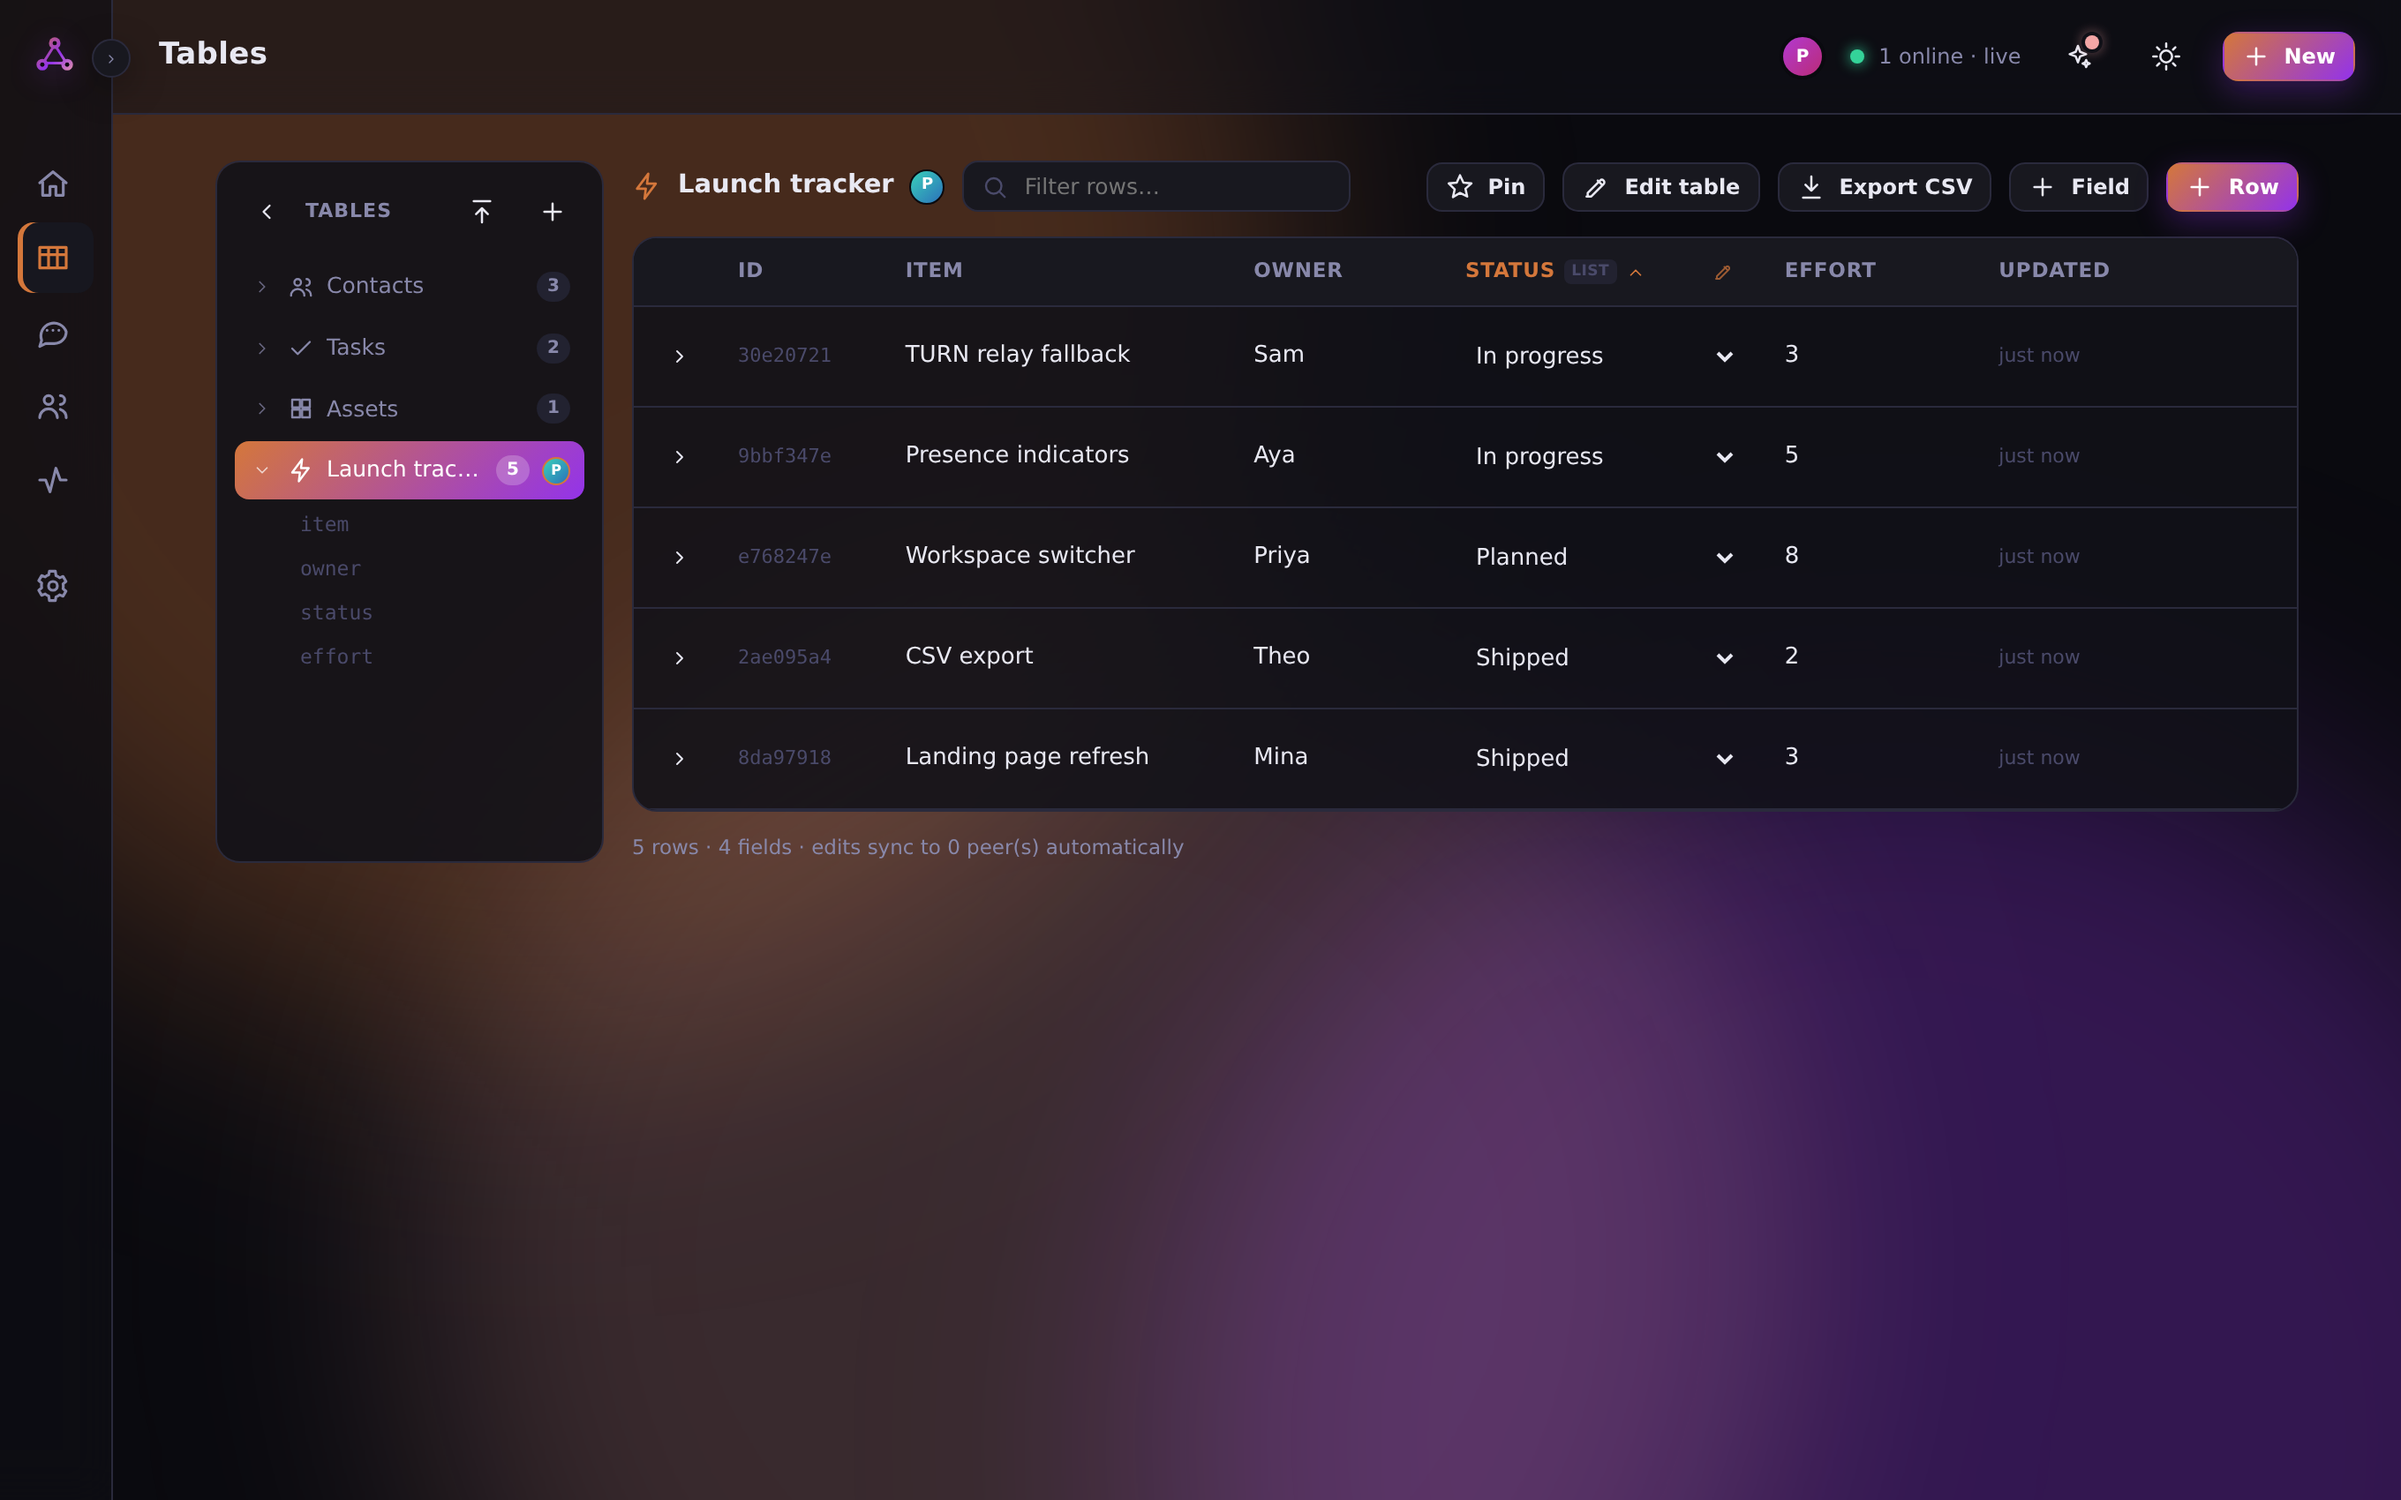
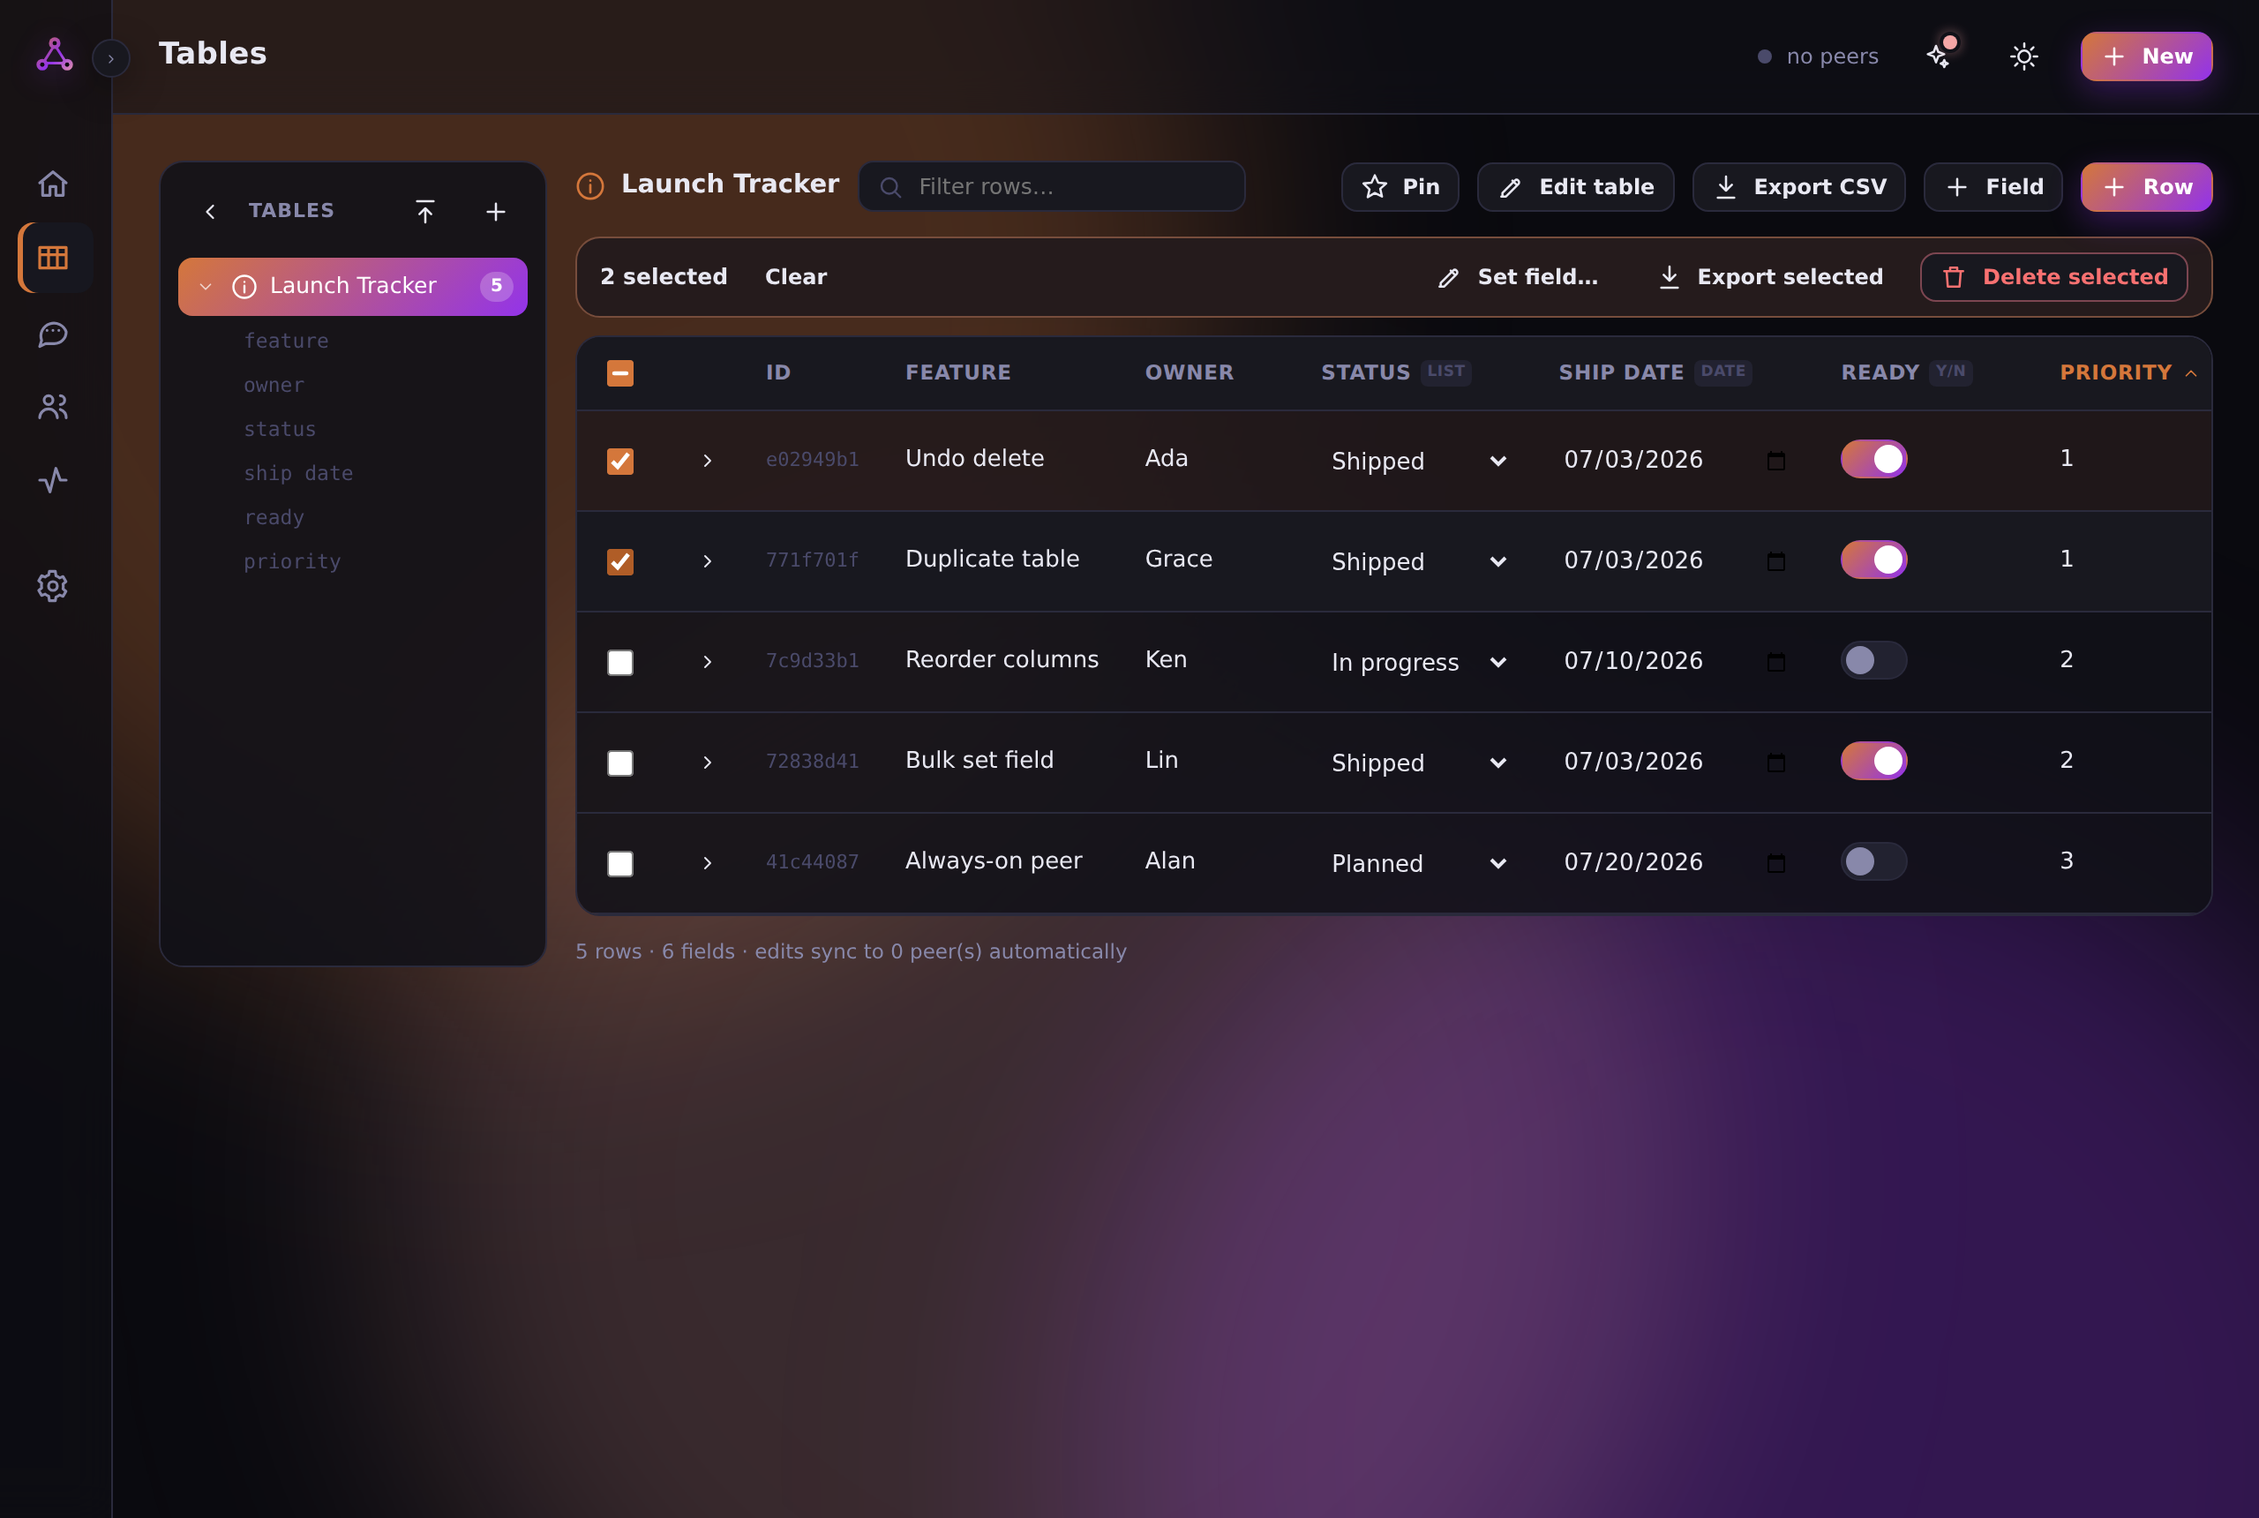
auto: self-improvement (polish)
Automated hourly improvement; passed smoke test and auto-deployed.

diff --git a/index.html b/index.html
@@ -4,13 +4,13 @@
   <meta charset="utf-8"/>
   <meta name="viewport" content="width=device-width, initial-scale=1, viewport-fit=cover"/>
   <title>Relay — a serverless, peer-to-peer collaborative table · polecat.live</title>
-  <meta name="description" content="Relay is a collaborative database that lives in your browser. Create dynamic, typed tables (import or export a CSV in one click), chat, see who's viewing a table live, and invite the people you trust with signed invite-only links — synced directly, peer to peer, with optional backups to your own local folder, S3, WebDAV, Dropbox, or Google Drive. No accounts, no backend, no servers."/>
+  <meta name="description" content="Relay is a collaborative database that lives in your browser. Create dynamic, typed tables (import or export a CSV in one click), bulk-edit or export a batch of rows, undo any delete, chat, see who's viewing a table live, and invite the people you trust with signed invite-only links — synced directly, peer to peer, with optional backups to your own local folder, S3, WebDAV, Dropbox, or Google Drive. No accounts, no backend, no servers."/>
   <meta name="theme-color" content="#0a0a0f"/>
   <link rel="icon" type="image/svg+xml" href="/favicon.svg"/>
   <link rel="stylesheet" href="/css/landing.css"/>
   <!-- Open Graph -->
   <meta property="og:title" content="Relay — your data, your peers, no server"/>
-  <meta property="og:description" content="A serverless, peer-to-peer collaborative table with live chat, live presence, and invite-only access. Runs entirely in your browser and syncs directly with the people you trust."/>
+  <meta property="og:description" content="A serverless, peer-to-peer collaborative table with bulk row actions, one-click undo, live chat, and invite-only access. Runs entirely in your browser and syncs directly with the people you trust."/>
   <meta property="og:type" content="website"/>
   <meta property="og:url" content="https://relay.polecat.live"/>
   <meta property="og:image" content="https://relay.polecat.live/assets/screenshot-app.png"/>
@@ -55,7 +55,7 @@
         <p class="lead">Relay is a shared workspace that lives in your browser and connects straight to the
           people you trust — tables, live chat, files-worth of data, synced directly, peer to peer. No
           accounts. No backend. No one else holding, reading, or brokering what you share.</p>
-        <a class="whats-new" href="/app/">✨ New — live presence: see exactly who's looking at a table right now</a>
+        <a class="whats-new" href="/app/">✨ New — Undo: bring back a deleted row, table, or field in one click</a>
         <div class="hero-cta">
           <a class="btn primary lg" href="/app/">Launch Relay <svg width="18" height="18" viewBox="0 0 24 24"><use href="#i-arrow"/></svg></a>
         </div>
@@ -69,7 +69,7 @@
       </div>
       <div class="shot">
         <div class="bar"><i></i><i></i><i></i><span class="url">relay.polecat.live/app</span></div>
-        <img src="/assets/screenshot-app.png" alt="Relay app — the Tables view with a collapsible tree of tables and fields, live search, and inline editing" loading="lazy"/>
+        <img src="/assets/screenshot-app.png" alt="Relay app — the Tables view with an expanded tree of fields, typed status and date columns, and two selected rows showing the bulk set-field / export / delete action bar" loading="lazy"/>
       </div>
     </section>
 
@@ -86,7 +86,7 @@
           <div class="card reveal"><div class="ic" style="background:linear-gradient(135deg,#d4773b,#8a3f18)"><svg viewBox="0 0 24 24"><use href="#i-broadcast"/></svg></div>
             <h3>Truly serverless</h3><p>WebRTC data channels plus a zero-config local mesh. Your records never touch a server — sync is browser to browser.</p></div>
           <div class="card reveal"><div class="ic" style="background:linear-gradient(135deg,#9333ea,#5b1f96)"><svg viewBox="0 0 24 24"><use href="#i-table"/></svg></div>
-            <h3>Dynamic JSON tables</h3><p>Every row is a UUID-keyed JSON object. Add, rename, or delete fields on the fly, filter and sort any column, and give a field a type — text, number, yes/no, date, dropdown — for a dedicated editor. No schema, no migrations.</p></div>
+            <h3>Dynamic JSON tables</h3><p>Every row is a UUID-keyed JSON object. Add, rename, or delete fields on the fly, filter and sort any column, and give a field a type — text, number, yes/no, date, dropdown — for a dedicated editor. Select rows in bulk to edit, export, or delete them together, and undo any delete — row, table, or field — in one click. No schema, no migrations.</p></div>
           <div class="card reveal"><div class="ic" style="background:linear-gradient(135deg,#34d399,#0f7d5b)"><svg viewBox="0 0 24 24"><use href="#i-refresh"/></svg></div>
             <h3>Conflict-free sync</h3><p>Last-writer-wins with version metadata and tombstone deletes. Two peers editing at once always converge.</p></div>
           <div class="card reveal"><div class="ic" style="background:linear-gradient(135deg,#F4A6A6,#b45c5c)"><svg viewBox="0 0 24 24"><use href="#i-key"/></svg></div>

diff --git a/js/changelog.js b/js/changelog.js
@@ -10,6 +10,16 @@
 // .github/stamp-changelog.mjs regenerates every `date` from its `ts`.
 export const CHANGELOG = [
   {
+    v: 46,
+    title: 'Landing page refresh',
+    ts: '2026-07-04T00:26:08.767Z',
+    date: 'Jul 3, 2026, 7:26 PM CT',
+    items: [
+      'Updated the hero screenshot to show the tree panel expanded with typed columns, plus two rows selected and the bulk set-field / export / delete action bar.',
+      'Refreshed the "what\'s new" pill and copy to call out Undo (bring back a deleted row, table, or field) and bulk row actions.',
+    ],
+  },
+  {
     v: 45,
     title: 'Duplicate a table',
     ts: '2026-07-03T23:54:42.341Z',

diff --git a/ROADMAP.md b/ROADMAP.md
@@ -38,6 +38,17 @@ when you finish something, move it to **Done** with the date; add discoveries to
 - Multiple workspaces / workspace switcher.
 
 ## Done
+- 2026-07-04 — Landing page refresh: the hero screenshot and "what's new" pill
+  hadn't kept pace with the last several shipped features (undo, bulk row
+  actions, duplicate table). Re-captured the hero shot via a seeded demo table
+  to show the Tables tree expanded with typed columns (dropdown/date/boolean
+  badges) and two rows checked, with the bulk action bar ("Set field…",
+  "Export selected", "Delete selected") front and center. Swapped the
+  hero "what's new" pill from the now-old live-presence callout to Undo
+  ("bring back a deleted row, table, or field in one click"), and touched up
+  the "Dynamic JSON tables" feature card plus meta/OG descriptions to mention
+  bulk row actions and undo alongside the existing typed-field/sort/filter
+  copy.
 - 2026-07-03 — Duplicate a table: the Edit table modal (rename/icon/delete)
   gained a "Duplicate" button that clones the table's fields, field types and
   current (non-deleted) rows into a brand-new entity named "<name> copy" (then
